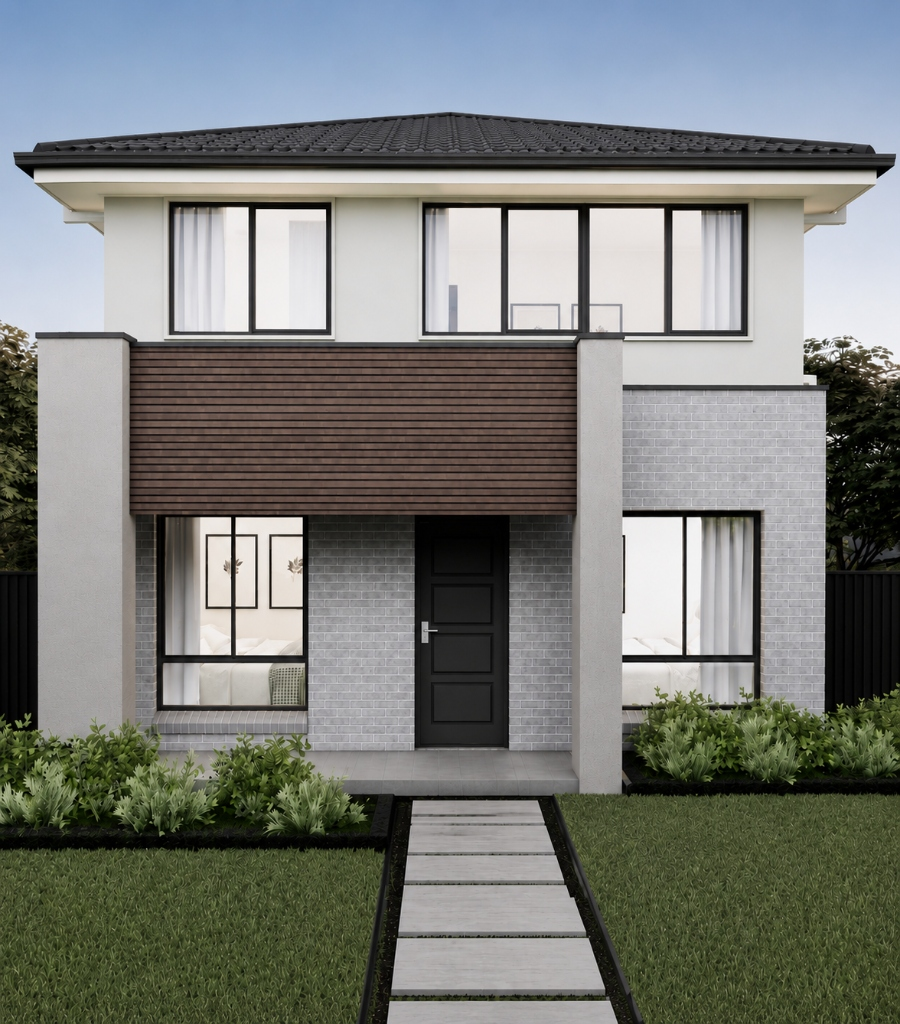
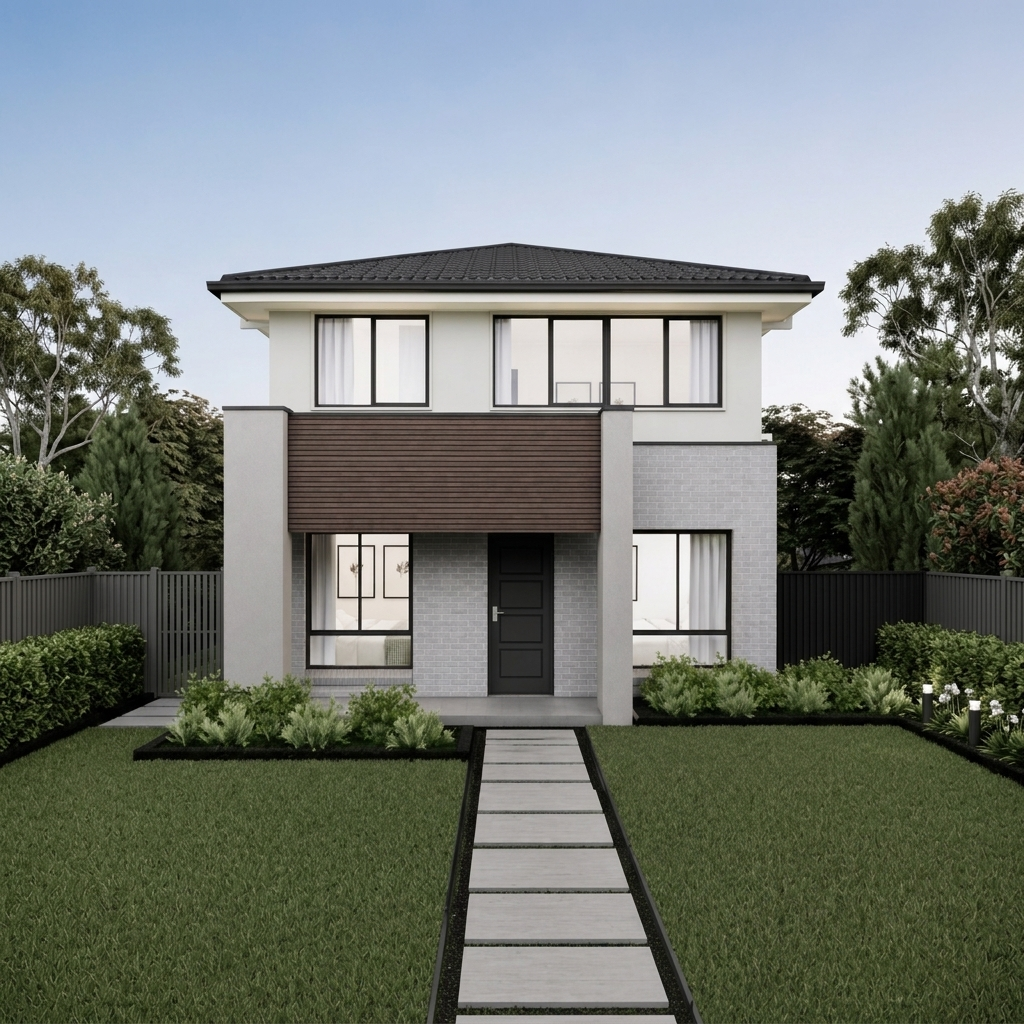
Replace Box Hill image with outpainted landscape version to show full original house with no gaps or blurry sides

diff --git a/src/data/properties.ts b/src/data/properties.ts
@@ -247,10 +247,10 @@ export const properties: Property[] = [
     bedrooms: 4,
     bathrooms: 2,
     carSpaces: 1,
-    image: "/images/prop-box-hill.jpg?v=4",
-    imageObjectPosition: "top",
+    image: "/images/prop-box-hill.jpg?v=5",
+    imageObjectPosition: "center",
     gallery: [
-      "/images/prop-box-hill.jpg?v=4",
+      "/images/prop-box-hill.jpg?v=5",
     ],
     category: "buy",
     type: "house",
